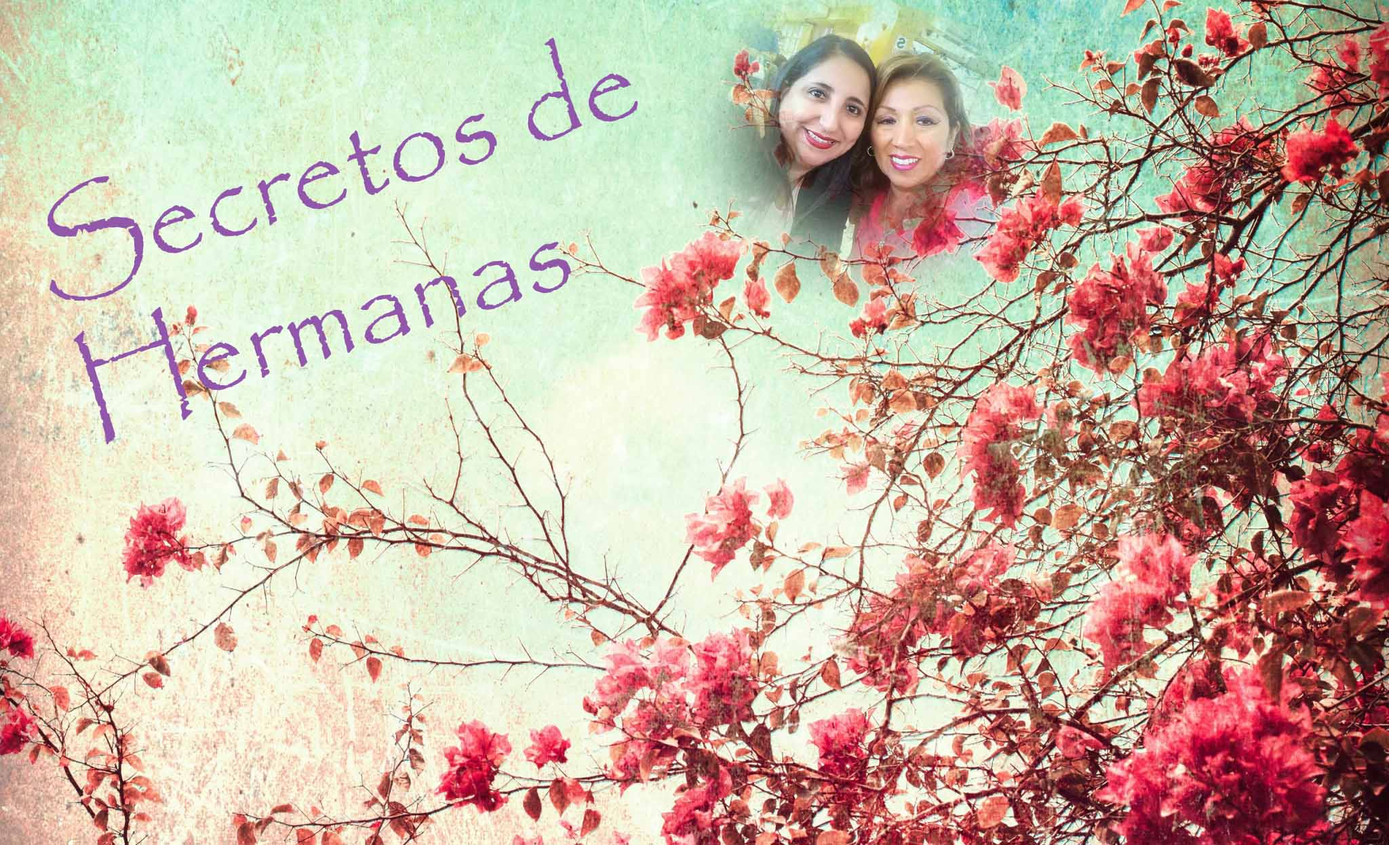
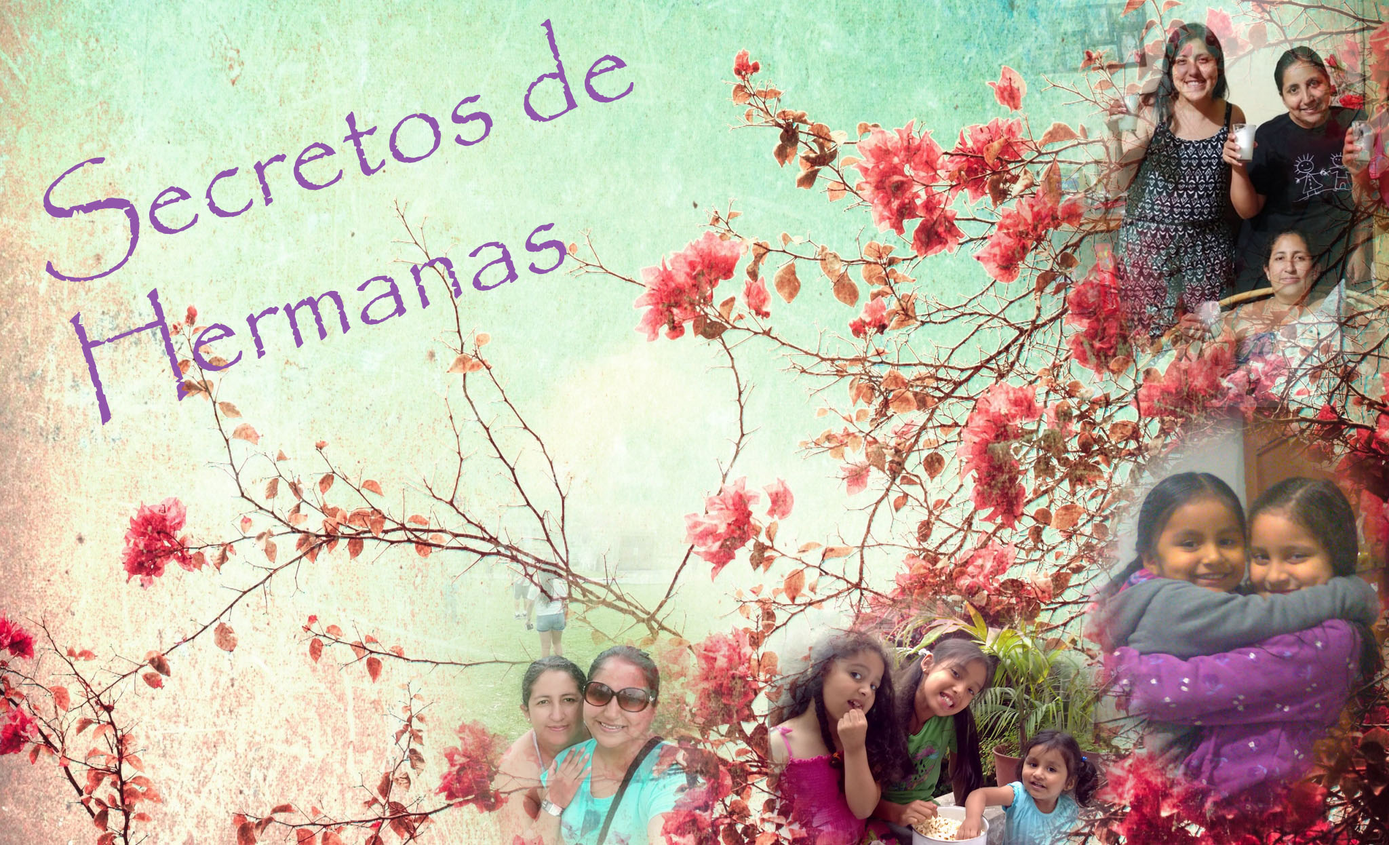
cambio de fondo y paginas

diff --git a/src/index.html b/src/index.html
@@ -12,28 +12,45 @@
     <header id="root">
      
       <img src="floresrojas.jpg">
-    
+
     </header>
 
     <section>
-
-       <div id="cl">
-          <label for="clave"> Por favor ingresa el número clave </label>
-          <input type="number" id="clave"></input>
+      
+      <div id="caja"> 
       </div>
+    
+    <div id="instruccion">
+      <h3> Desde ahora podrás enviarte mensajes secretos con tu hermana, sin que tu mamá las descubra </h3>
 
-    <div id="secreto">
-      <label for="mensaje"> Ingresa el mensaje secreto </label>
-      <input type="text" id="mensj" name="mensaje"></input>
+      <h4> Para que eso suceda, deberás de recordar lo siguiente: </br>
+             1. Ingresarás un número que será la clave entre tu hermana y tú. </br>
+             2. Escribirás el mensaje. </br>
+             3. Harás click en los botones de CIFRAR o DECIFRAR, según sea el caso.</br>
+
+      </h4>
+      
     </div>
 
-  <div id=buttons> 
-    <button type="button" id="encriptar" > Cifrar </button>
-    <button type="button" id="desencriptar"> Descifrar </button>
-  </div>
+    <div id="page2">  
+        <div id="cl">
+          <label for="clave"> Por favor ingresa el número clave </label>
+          <input type="number" id="clave"></input>
+        </div>
 
-    <div id="Textoamostrar"></div>
-    
+        <div id="secreto">
+          <label for="mensaje"> Ingresa el mensaje secreto </label>
+          <input type="text" id="mensj" name="mensaje"></input>
+        </div>
+
+        <div id=buttons> 
+        <button type="button" id="encriptar" > Cifrar </button>
+        <button type="button" id="desencriptar"> Descifrar </button>
+        </div>
+
+        <div id="Textoamostrar"></div>
+    </div>
+
     </section>
 
     <script src="cipher.js"></script>

diff --git a/src/style.css b/src/style.css
@@ -42,6 +42,36 @@ button:hover {
    transform: translateY(2px);
 }
 
+#instruccion {
+    padding: 15px 15px 13px 13px;
+    width: 450px;
+    height: 230px;
+    text-align: center;
+    border: 5px solid #DE39D4;
+    outline: #FFB0E3 solid 10px;
+    position: absolute;
+   	left: 30%;
+    top: 150%;
+    opacity: 0.7;
+    background-color: #FFFFFF;
+    -ms-transform: translate(30px, 300px); /* IE 9 */
+    -webkit-transform: translate(30px, 300px); /* Safari */
+    transform: translate(30px, 300px);
+   
+}
+
+#page2 {
+
+	display: none;
+}
+
+
+h4 {
+	text-align: left;
+
+
+}
+
 #buttons {
 	columns: auto 2;
 	padding:25px 25px;
